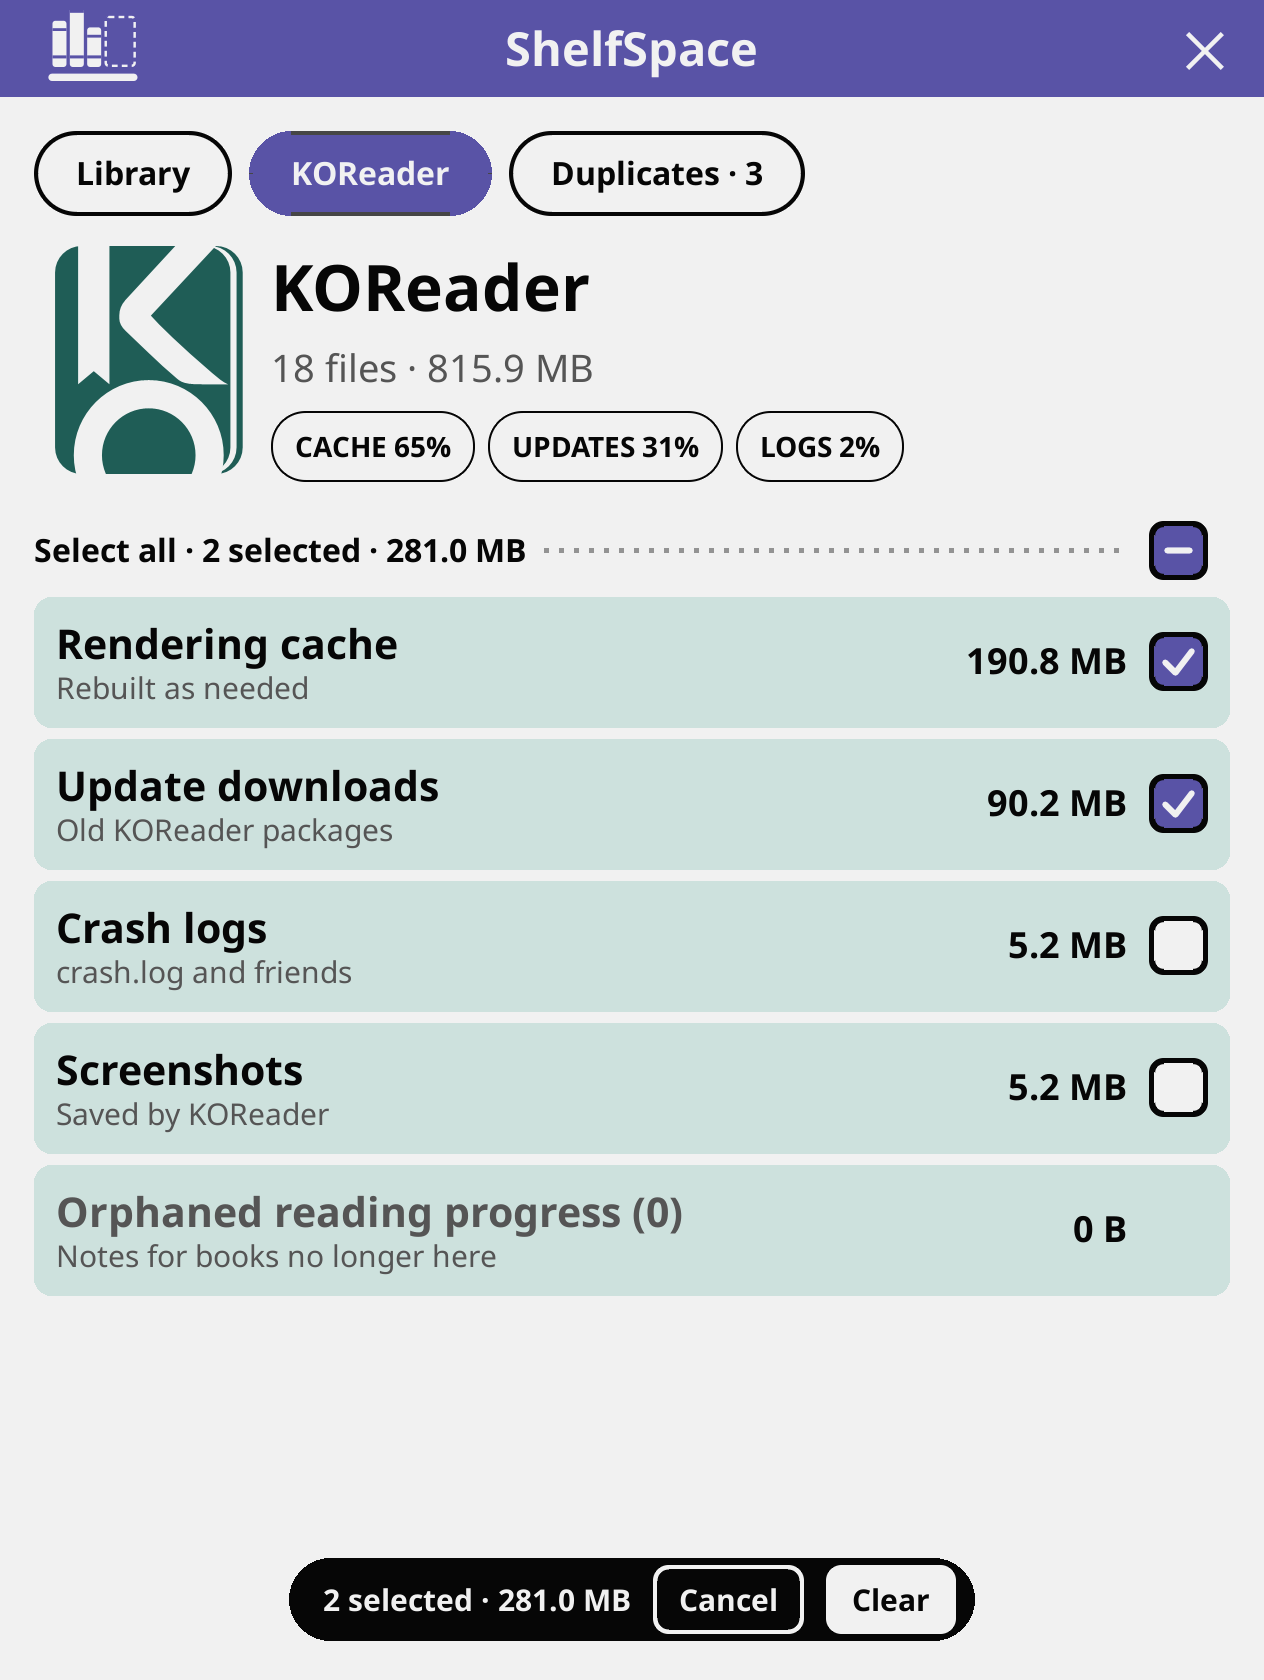
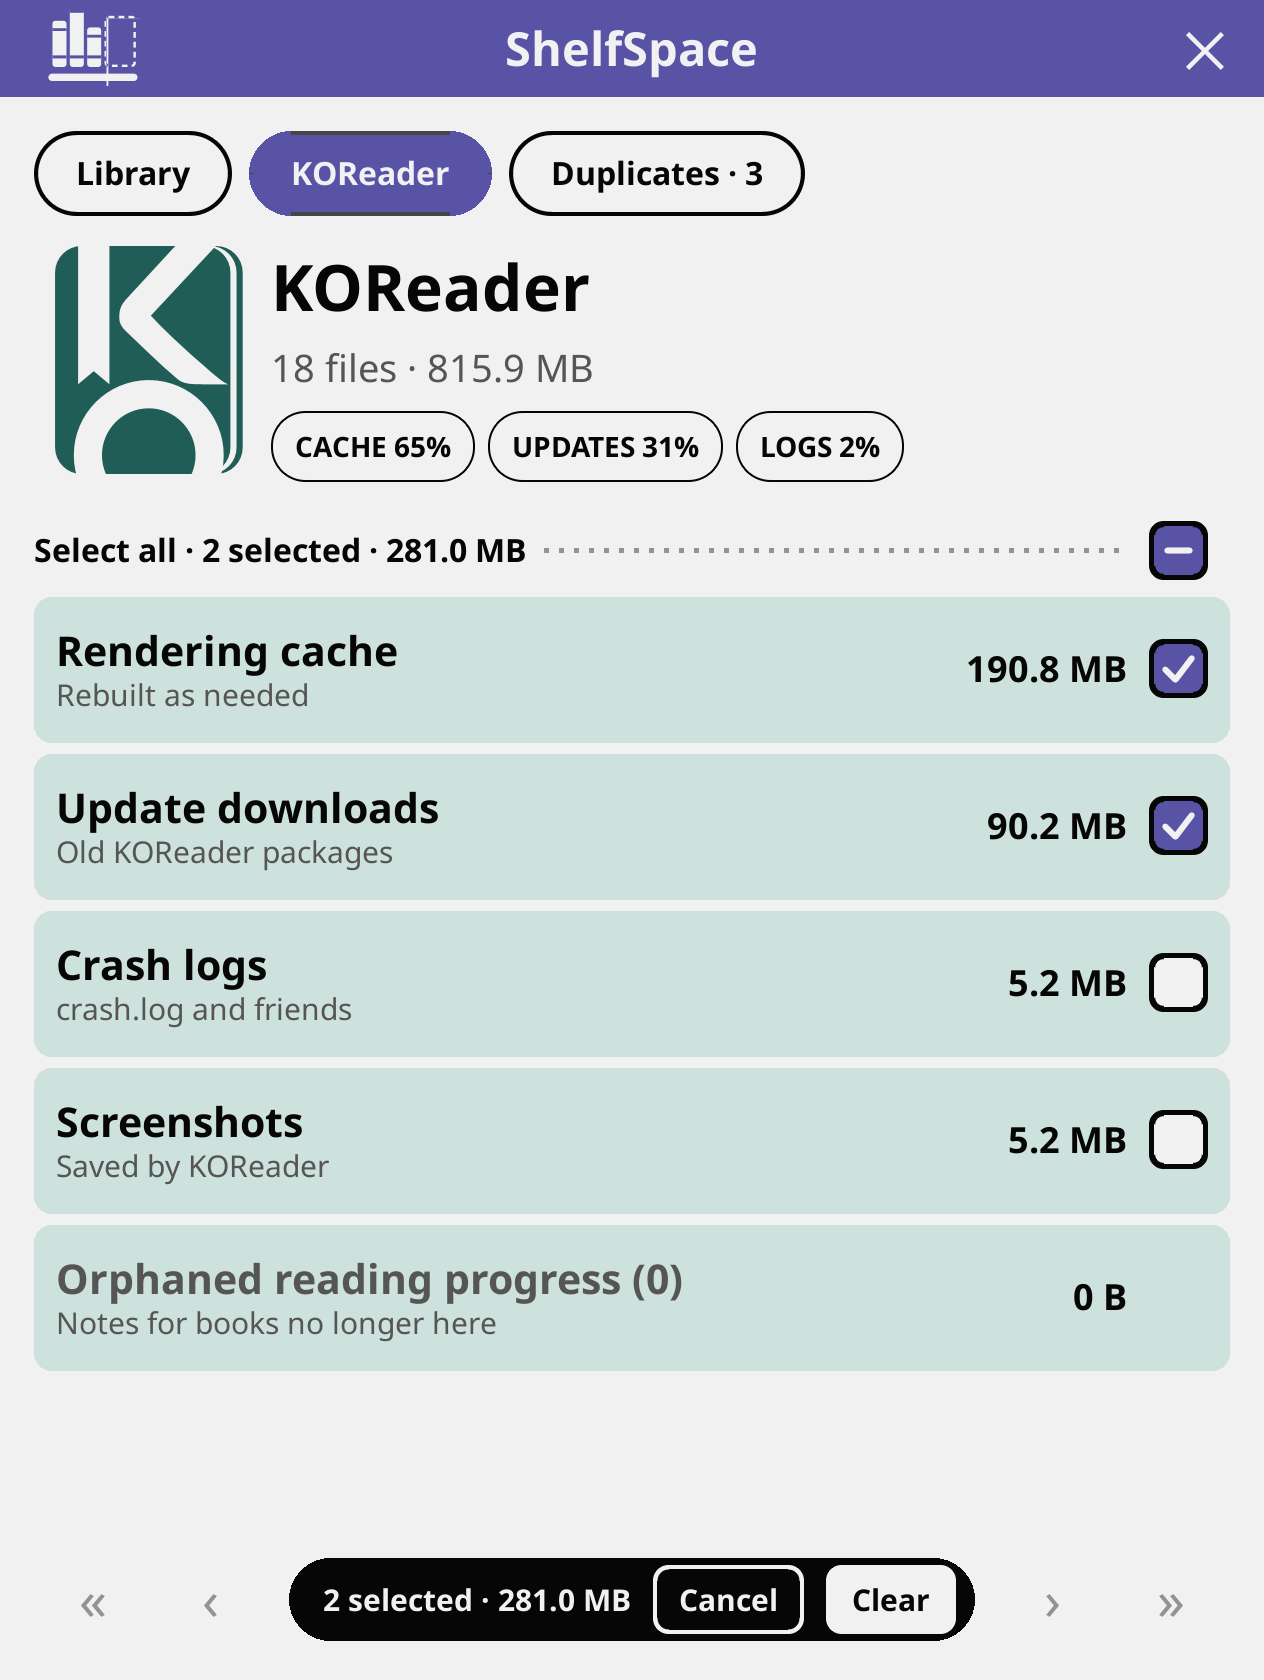
fix: page the KOReader tab like the Library so it fits any screen, and add a check that every tab fits common e-reader sizes

Changed region(s): [[0.0, 0.3714, 0.9873, 0.8357]]

diff --git a/README.md b/README.md
@@ -64,7 +64,7 @@ You always get a confirmation first, naming what goes and how many books lose th
 
 ### KOReader
 
-What KOReader can rebuild or no longer needs: the rendering cache, update downloads, crash logs, screenshots, and the reading progress of books that are gone. It works like the Library: select rows, use **Select all**, and the same bar offers **Clear**. **Clear all** at the bottom clears everything listed. When there is nothing to clear the tab says **ALL CLEAR**, and there is nothing to select. Either way you are asked first, with a warning that screenshots and reading progress cannot be recovered.
+What KOReader can rebuild or no longer needs: the rendering cache, update downloads, crash logs, screenshots, and the reading progress of books that are gone. It works like the Library: select rows, use **Select all**, and the same bar offers **Clear**. The list pages like the Library's, so it fits any screen size. With nothing selected, a bar at the bottom offers **Clear all** for everything listed. When there is nothing to clear the tab says **ALL CLEAR**, and there is nothing to select. Either way you are asked first, with a warning that screenshots and reading progress cannot be recovered.
 
 ### Duplicates
 
@@ -175,6 +175,8 @@ The logic runs under plain `luajit`, without KOReader. It covers what may be del
     tests/run.sh
 
 Screenshots are taken by `tools/screenshots/run.sh /path/to/KOReader.app`. It builds a sample library and a made-up 8 GB device, drives ShelfSpace through every screen in the desktop emulator, checks it as it goes (what may be deleted, every file type, duplicates, the filters), and washes the colour screenshots with `tools/kaleido-wash.sh`. Add `--readme` to put the washed ones in `assets/`. Every screenshot in this repository goes through that wash; run `tools/kaleido-wash.sh shot.png` on any other colour capture, once.
+
+`tools/screenshots/sizes.sh /path/to/KOReader.app` opens ShelfSpace at the screen sizes of common e-readers (from 600 × 800 up to 1440 × 1920, 167 to 300 dpi) and checks that every tab fits, with a screenshot of each. Portrait only for now: in landscape the Library shows a single row a page.
 
 `tools/make-wordmark.py` draws the name under the logo as outlines from a font file; the result is already in `shelfspace.koplugin/shelfspace/icons.lua`.
 
